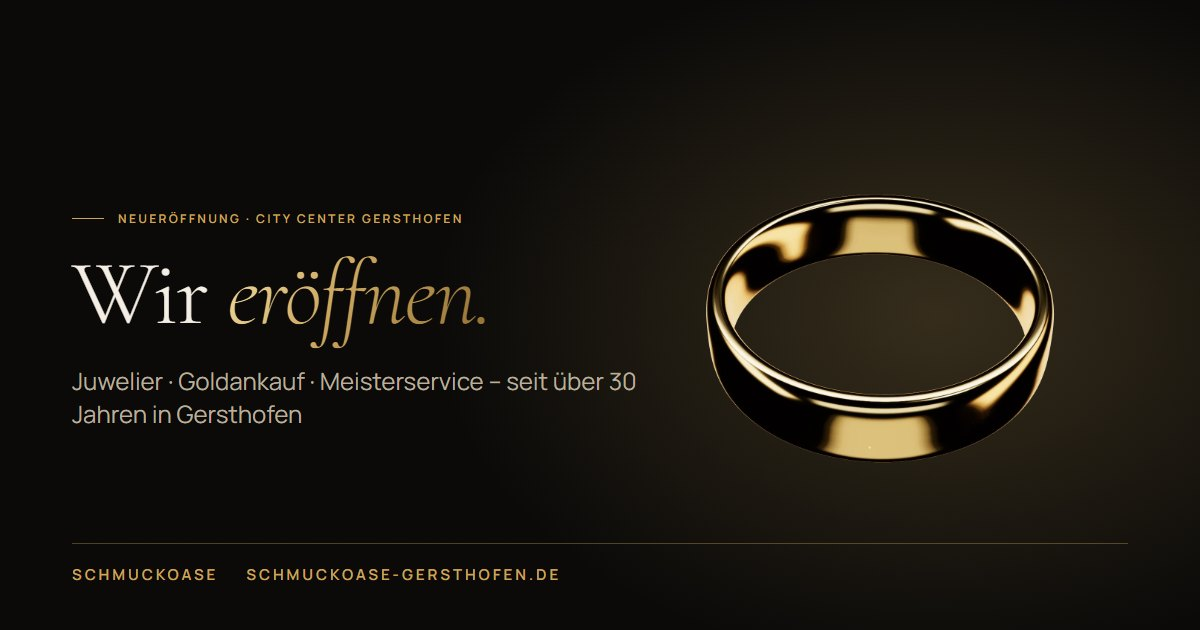
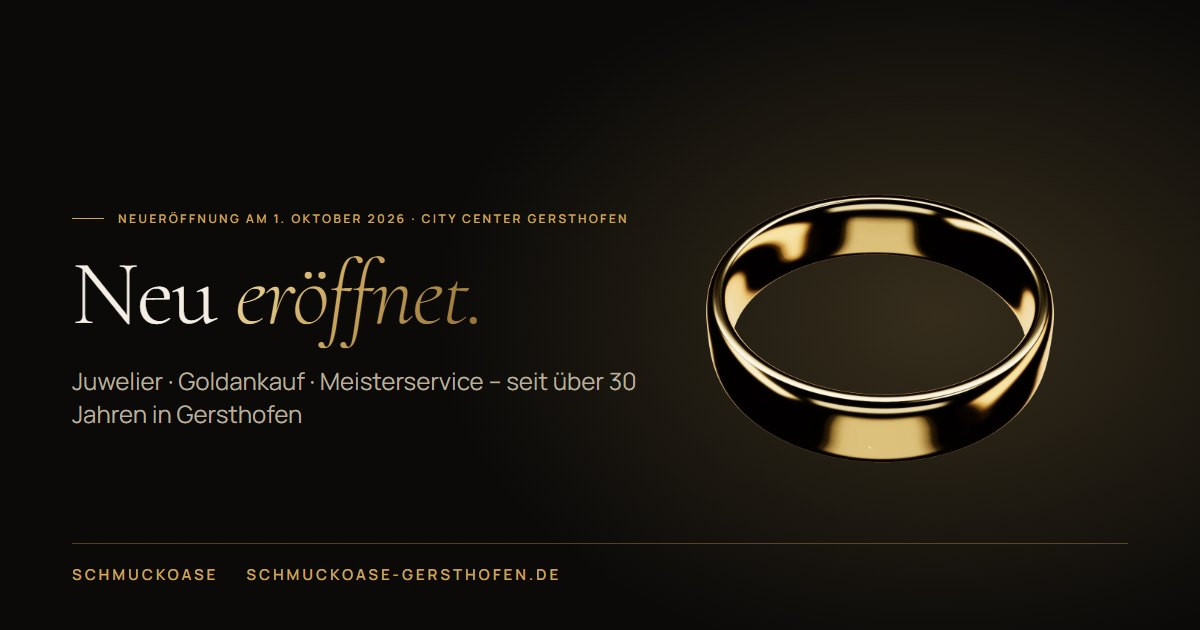
Eröffnungsdatum 1. Oktober 2026 eintragen
Countdown zeigt jetzt "Jetzt geöffnet", Kalender-Button wird nach dem
Termin ausgeblendet, Texte, Event-Schema und OG-Bild auf "eröffnet"
umgestellt. Uhrzeit 9:00 angenommen.

Changed region(s): [[0.0617, 0.3921, 0.4008, 0.573], [0.2158, 0.3317, 0.5242, 0.3619]]

diff --git a/eroeffnung/index.html b/eroeffnung/index.html
@@ -3,19 +3,19 @@
 <head>
 <meta charset="utf-8">
 <meta name="viewport" content="width=device-width, initial-scale=1, viewport-fit=cover">
-<title>Neueröffnung im City Center Gersthofen | SchmuckOase</title>
-<meta name="description" content="Die SchmuckOase eröffnet ihren neuen Laden im City Center Gersthofen. Termin, Eröffnungsangebot und alle Infos – jetzt im Kalender speichern.">
+<title>Neu eröffnet im City Center Gersthofen | SchmuckOase</title>
+<meta name="description" content="Seit 1. Oktober 2026 hat die SchmuckOase ihren neuen Laden im City Center Gersthofen. Eröffnungsangebot, Öffnungszeiten und alle Infos.">
 <link rel="canonical" href="https://schmuckoase-gersthofen.de/eroeffnung/">
 <meta property="og:type" content="website">
 <meta property="og:locale" content="de_DE">
 <meta property="og:site_name" content="SchmuckOase Gersthofen">
-<meta property="og:title" content="Wir eröffnen! SchmuckOase im City Center Gersthofen">
+<meta property="og:title" content="Neu eröffnet: SchmuckOase im City Center Gersthofen">
 <meta property="og:description" content="Neuer Laden, gewohnte Menschen: Juwelier · Goldankauf · Meisterservice – seit über 30 Jahren in Gersthofen.">
 <meta property="og:url" content="https://schmuckoase-gersthofen.de/eroeffnung/">
 <meta property="og:image" content="https://schmuckoase-gersthofen.de/assets/og/og-eroeffnung.jpg">
 <meta property="og:image:width" content="1200">
 <meta property="og:image:height" content="630">
-<meta property="og:image:alt" content="Goldring auf schwarzem Grund mit dem Schriftzug „Wir eröffnen.“">
+<meta property="og:image:alt" content="Goldring auf schwarzem Grund mit dem Schriftzug „Neu eröffnet.“">
 <meta name="twitter:card" content="summary_large_image">
 <!-- @partial head -->
 <meta name="theme-color" content="#0B0A09">
@@ -72,7 +72,7 @@
 }
 </script>
 <!-- @/partial -->
-<!-- TODO: startDate/endDate eintragen, sobald das Eröffnungsdatum feststeht (Format 2026-11-07T10:00:00+01:00) -->
+<!-- Uhrzeit der Eröffnung angenommen (9–18 Uhr), ggf. anpassen -->
 <script type="application/ld+json">
 {
   "@context": "https://schema.org",
@@ -83,9 +83,9 @@
     {
       "@type": "Event",
       "name": "Neueröffnung SchmuckOase Gersthofen",
-      "description": "Die SchmuckOase eröffnet ihren neuen Laden im City Center Gersthofen – Juwelier, Goldankauf und Meisterservice.",
-      "startDate": "[PLATZHALTER: Eröffnungsdatum]",
-      "endDate": "[PLATZHALTER: Ende]",
+      "description": "Die SchmuckOase eröffnet am 1. Oktober 2026 ihren neuen Laden im City Center Gersthofen – Juwelier, Goldankauf und Meisterservice.",
+      "startDate": "2026-10-01T09:00:00+02:00",
+      "endDate": "2026-10-01T18:00:00+02:00",
       "eventStatus": "https://schema.org/EventScheduled",
       "eventAttendanceMode": "https://schema.org/OfflineEventAttendanceMode",
       "isAccessibleForFree": true,
@@ -168,7 +168,7 @@
     <div class="container">
       <nav class="breadcrumb" aria-label="Brotkrümelnavigation"><ol><li><a href="/">Startseite</a></li><li aria-current="page">Neueröffnung</li></ol></nav>
       <span class="overline">Neueröffnung · City Center Gersthofen</span>
-      <h1 class="display" id="page-title" style="max-width:9ch">Wir <em class="gold-text">eröffnen.</em></h1>
+      <h1 class="display" id="page-title" style="max-width:9ch">Neu <em class="gold-text">eröffnet.</em></h1>
       <p class="lead">Neuer Laden, gewohnte Menschen. Nach über 30 Jahren in Gersthofen begrüßen wir Sie in unseren neuen Räumen im City Center – mit Juwelier, Goldankauf und Meisterservice unter einem Dach.</p>
       <div data-countdown style="max-width:560px">
         <div class="countdown" data-countdown-grid hidden>
@@ -178,7 +178,7 @@
           <div><b data-cd="s">00</b><span>Sekunden</span></div>
         </div>
         <p class="opening__live" data-countdown-live hidden>Jetzt geöffnet – <em class="gold">besuchen Sie uns.</em></p>
-        <p class="muted" data-countdown-ph>Eröffnung am <span class="ph">[PLATZHALTER: Eröffnungsdatum]</span><!-- TODO: js/config.js → EROEFFNUNG --></p>
+        <p class="muted" data-countdown-ph>Eröffnet am 1. Oktober 2026</p>
       </div>
       <div class="btn-row">
         <button class="btn btn--solid" type="button" data-ics data-magnetic><svg aria-hidden="true"><use href="/assets/icons.svg#i-calendar"/></svg>In Kalender speichern</button>
@@ -198,7 +198,7 @@
           <div><dt class="h3" style="font-size:1.5rem">Wo?</dt><dd class="muted" style="margin:8px 0 0"><span class="ph">[PLATZHALTER: Straße + Nr.]</span>, City Center, 86368 Gersthofen<!-- TODO --></dd></div>
           <div><dt class="h3" style="font-size:1.5rem">Alles wie gewohnt</dt><dd class="muted" style="margin:8px 0 0">Goldankauf zum Tageskurs, Schmuckreparatur, Gravur, Batteriewechsel, Ohrlochstechen – und dieselben Gesichter, die Sie seit Jahren kennen.</dd></div>
         </dl>
-        <p class="small muted">Teilen Sie die Neuigkeit: <a class="gold" href="https://wa.me/?text=Die%20SchmuckOase%20er%C3%B6ffnet%20im%20City%20Center%20Gersthofen%3A%20https%3A%2F%2Fschmuckoase-gersthofen.de%2Feroeffnung%2F" target="_blank" rel="noopener">per WhatsApp</a> · <a class="gold" href="https://www.facebook.com/sharer/sharer.php?u=https%3A%2F%2Fschmuckoase-gersthofen.de%2Feroeffnung%2F" target="_blank" rel="noopener">auf Facebook</a></p>
+        <p class="small muted">Teilen Sie die Neuigkeit: <a class="gold" href="https://wa.me/?text=Die%20SchmuckOase%20hat%20im%20City%20Center%20Gersthofen%20neu%20er%C3%B6ffnet%3A%20https%3A%2F%2Fschmuckoase-gersthofen.de%2Feroeffnung%2F" target="_blank" rel="noopener">per WhatsApp</a> · <a class="gold" href="https://www.facebook.com/sharer/sharer.php?u=https%3A%2F%2Fschmuckoase-gersthofen.de%2Feroeffnung%2F" target="_blank" rel="noopener">auf Facebook</a></p>
       </div>
     </div>
   </section>

diff --git a/index.html b/index.html
@@ -192,10 +192,10 @@
   <!-- ═══ 3 ERÖFFNUNGS-LEISTE ══════════════════════════════════════════ -->
   <div class="marquee" role="region" aria-label="Neueröffnung">
     <div class="marquee__track">
-      <span class="marquee__item gold">Neueröffnung · <span class="ph">[PLATZHALTER: Datum]</span><!-- TODO: Eröffnungsdatum --> · City Center Gersthofen · Eröffnungsangebot: <span class="ph">[PLATZHALTER: Angebot]</span><!-- TODO: Eröffnungsangebot --> ·</span>
-      <span class="marquee__item gold" aria-hidden="true">Neueröffnung · <span class="ph">[PLATZHALTER: Datum]</span> · City Center Gersthofen · Eröffnungsangebot: <span class="ph">[PLATZHALTER: Angebot]</span> ·</span>
-      <span class="marquee__item gold" aria-hidden="true">Neueröffnung · <span class="ph">[PLATZHALTER: Datum]</span> · City Center Gersthofen · Eröffnungsangebot: <span class="ph">[PLATZHALTER: Angebot]</span> ·</span>
-      <span class="marquee__item gold" aria-hidden="true">Neueröffnung · <span class="ph">[PLATZHALTER: Datum]</span> · City Center Gersthofen · Eröffnungsangebot: <span class="ph">[PLATZHALTER: Angebot]</span> ·</span>
+      <span class="marquee__item gold">Neueröffnung · 1. Oktober 2026 · City Center Gersthofen · Eröffnungsangebot: <span class="ph">[PLATZHALTER: Angebot]</span><!-- TODO: Eröffnungsangebot --> ·</span>
+      <span class="marquee__item gold" aria-hidden="true">Neueröffnung · 1. Oktober 2026 · City Center Gersthofen · Eröffnungsangebot: <span class="ph">[PLATZHALTER: Angebot]</span> ·</span>
+      <span class="marquee__item gold" aria-hidden="true">Neueröffnung · 1. Oktober 2026 · City Center Gersthofen · Eröffnungsangebot: <span class="ph">[PLATZHALTER: Angebot]</span> ·</span>
+      <span class="marquee__item gold" aria-hidden="true">Neueröffnung · 1. Oktober 2026 · City Center Gersthofen · Eröffnungsangebot: <span class="ph">[PLATZHALTER: Angebot]</span> ·</span>
     </div>
   </div>
 
@@ -522,7 +522,7 @@
       </figure>
       <div class="stack">
         <span class="overline">Neueröffnung</span>
-        <h2 class="h2" id="eroeffnung-title" data-reveal>Unser neuer Laden <em>öffnet.</em></h2>
+        <h2 class="h2" id="eroeffnung-title" data-reveal>Unser neuer Laden <em>ist eröffnet.</em></h2>
         <p class="lead" data-reveal>Neuer Laden, gewohnte Menschen: Nach über 30 Jahren in Gersthofen begrüßen wir Sie in unseren neuen Räumen im City Center.</p>
         <div data-countdown>
           <div class="countdown" data-countdown-grid hidden>
@@ -532,12 +532,12 @@
             <div><b data-cd="s">00</b><span>Sekunden</span></div>
           </div>
           <p class="opening__live" data-countdown-live hidden>Jetzt geöffnet – <em class="gold">besuchen Sie uns.</em></p>
-          <p class="muted" data-countdown-ph>Eröffnung am <span class="ph">[PLATZHALTER: Eröffnungsdatum]</span><!-- TODO: Datum in js/config.js (EROEFFNUNG) eintragen --></p>
+          <p class="muted" data-countdown-ph>Eröffnet am 1. Oktober 2026</p>
         </div>
         <p><strong>Eröffnungsangebot:</strong> <span class="ph">[PLATZHALTER: Eröffnungsangebot]</span><!-- TODO --></p>
         <div class="btn-row">
           <button class="btn" type="button" data-ics data-magnetic><svg aria-hidden="true"><use href="/assets/icons.svg#i-calendar"/></svg>In Kalender speichern</button>
-          <a class="link-arrow" href="/eroeffnung/">Alles zur Eröffnung</a>
+          <a class="link-arrow" href="/eroeffnung/">Alles zur Neueröffnung</a>
         </div>
       </div>
     </div>

diff --git a/js/eroeffnung.js b/js/eroeffnung.js
@@ -31,9 +31,10 @@ export function init() {
   }
 
   for (const btn of document.querySelectorAll('[data-ics]')) {
-    if (!valid || start < Date.now()) {
+    if (valid && start < Date.now()) { btn.hidden = true; continue; } // Eröffnung vorbei → Button ausblenden
+    if (!valid) {
       btn.setAttribute('aria-disabled', 'true');
-      btn.title = valid ? 'Die Eröffnung hat bereits stattgefunden.' : 'Termin folgt in Kürze.';
+      btn.title = 'Termin folgt in Kürze.';
       continue;
     }
     btn.addEventListener('click', () => {

diff --git a/js/config.js b/js/config.js
@@ -16,7 +16,7 @@ export const WHATSAPP_NUMMER = ''; // TODO: [PLATZHALTER: WhatsApp-Nummer]
 
 /** Eröffnung: ISO-Datum mit Zeitzone, z. B. '2026-11-07T10:00:00+01:00'.
  *  null → Countdown zeigt einen Platzhalter, .ics-Button ist deaktiviert. */
-export const EROEFFNUNG = null; // TODO: [PLATZHALTER: Eröffnungsdatum + Uhrzeit]
+export const EROEFFNUNG = '2026-10-01T09:00:00+02:00'; // Eröffnung 1. Oktober 2026 (Uhrzeit 9:00 angenommen)
 export const EROEFFNUNG_DAUER_STUNDEN = 8;
 
 /** Adresse des neuen Ladens. */
